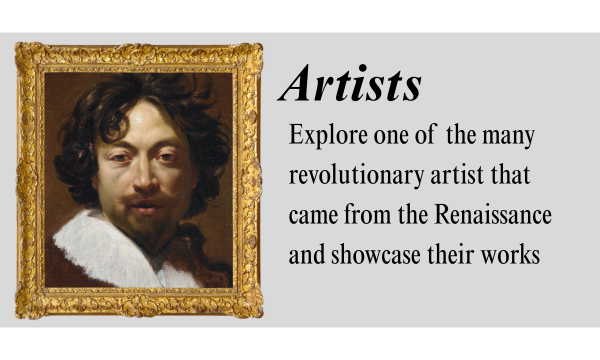
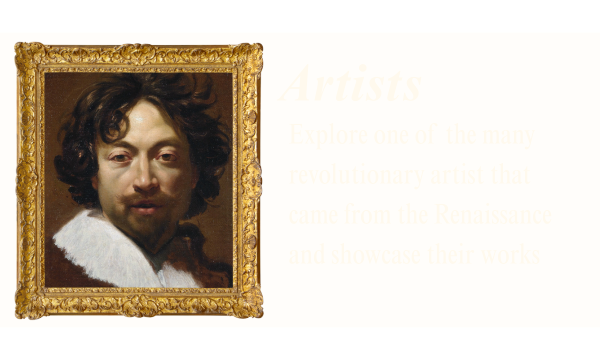
commit

diff --git a/public/themes.css b/public/themes.css
@@ -1,12 +1,12 @@
 /* General Body and Content Styles */
 body {
-    /*
-    background-image: url('../asset/bg1.png');
+    background-image: url('../asset/indexbg.png');
     background-size: cover;
     background-repeat: no-repeat;
     background-position: center;
-    background-attachment: fixed; */
+    background-attachment: fixed; 
     margin: 0;
+    color: #fff2e1;
 }
 
 /*Text Content Styles for All Pages*/
@@ -17,7 +17,7 @@ body {
     font-size: 18px;       /* base font size */
     flex-direction: column; 
     font-family: 'Times New Roman', Times, serif;
-    /*color: #f7e371;*/
+    padding: 2rem 9rem 3rem 9rem;
 }
 
 /*Image Animation */
@@ -47,7 +47,7 @@ header {
     display: flex;
     align-items: center;
     gap: 1rem;
-    background-color:gray; /*placeholder*/
+    background-color:#090705;
     padding: 1em 2rem 0rem 2rem;
     margin-bottom: 0rem;
 }
@@ -60,7 +60,7 @@ header .right {
     display: flex;
     padding: 0.5rem 1rem 0.5rem 1rem;
     justify-content: center;
-    background-color: rgb(189, 189, 189); /*placeholder*/
+    background-color: #29241f;
 }
 
 .navigation-bar a {
@@ -68,7 +68,7 @@ header .right {
     padding: 0rem 2rem;;
     font-size: 1.1rem;
     font-style: bold;
-    color: black;
+    color: #fff2e1;
     font-family: serif;
 }
 
@@ -79,7 +79,7 @@ footer {
     justify-content: space-between;
     align-items: center;            
     padding: 10px;
-    background-color:gray; /*placeholder*/
+    background-color:#090705;
     padding: 1em 2rem 1rem 2rem;
 }
 
@@ -98,9 +98,7 @@ footer .right {
 
 /*Text Content Layout for All Pages*/
 
-.content {
-    padding: 2rem 9rem 3rem 9rem;
-}
+
 
 .content > p {
     font-size: 1.2rem;

diff --git a/index.html b/index.html
@@ -11,14 +11,13 @@
     <link rel="icon" href="asset/logo-project.png" sizes="32x32" type="image/png" />
     <script src="script.js"defer></script>
     <style> 
-        body {
-            background-color: rgb(246, 246, 246);
-        }
+
         .Content {
             max-width: 56rem;
             margin: 0 auto;
             padding: 1rem;
             text-align: center;
+            color: #fff2e1;
         }
 
         .Content h1 {
@@ -51,8 +50,8 @@
         <a class="paintings-style" href="index.html">
             <img src="asset/logo-project.png" alt="Logo" width="74rem" height="74rem" />
         </a>
-        <h1>Rebirth of Art</h1>
-        <h2 class="right">Home</h2>
+        <h1 style="color: #f3cb63">Rebirth of Art</h1>
+        <h2 class="right">HOMEPAGE</h2>
     </header>
 
     <!--Navigation Bar Content-->
